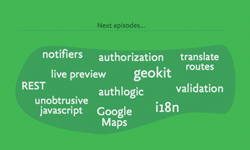
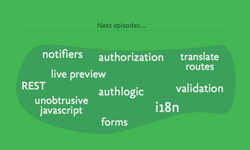
Added episodes 6, 7, 8. Fixed small issues in episodes 4, 5

diff --git a/index.html b/index.html
@@ -57,13 +57,13 @@
   </li>
 
   <li class="left">
-  	<strong>Episode #4 (04:05)</strong>
+  	<strong>Episode #4 (04:04)</strong>
   	<a href="http://s3.amazonaws.com/rails3/episode-04.mov" title="Download video in Quicktime H.264 format"><img src="images/episode-04.png" alt="View partials and the favicon" /></a>
   	<span class="desc">You will create partials for the header and the footer, include layout images and generate a favicon</span>
     <ul class="formats">
-      <li><a href="http://s3.amazonaws.com/rails3/episode-04.mov" title="Download in Quicktime H.264 format" class="main">episode-04.mov</a> (QT H.264, 7.5 MB)</li>
-      <li><a href="http://s3.amazonaws.com/rails3/episode-04.ogv" title="Download in Ogg Theora format">episode-04.ogv</a> (Ogg Theora, 8.7 MB)</li>
-      <li><a href="http://s3.amazonaws.com/rails3/episode-04.m4v" title="Download in iPod video H.264 format">episode-04.m4v</a> (iPod video, 5.2 MB)</li>
+      <li><a href="http://s3.amazonaws.com/rails3/episode-04.mov" title="Download in Quicktime H.264 format" class="main">episode-04.mov</a> (QT H.264, 7.6 MB)</li>
+      <li><a href="http://s3.amazonaws.com/rails3/episode-04.ogv" title="Download in Ogg Theora format">episode-04.ogv</a> (Ogg Theora, 9.4 MB)</li>
+      <li><a href="http://s3.amazonaws.com/rails3/episode-04.m4v" title="Download in iPod video H.264 format">episode-04.m4v</a> (iPod video, 5.3 MB)</li>
     </ul>
   </li>
 
@@ -72,21 +72,54 @@
   	<a href="http://s3.amazonaws.com/rails3/episode-05.mov" title="Download video in Quicktime H.264 format"><img src="images/episode-05.png" alt="Image attachments with Paperclip" /></a>
   	<span class="desc">You will import and show images storing them either locally or on Amazon S3 using Paperclip</span>
     <ul class="formats">
-      <li><a href="http://s3.amazonaws.com/rails3/episode-05.mov" title="Download in Quicktime H.264 format" class="main">episode-05.mov</a> (QT H.264, 10.6 MB)</li>
-      <li><a href="http://s3.amazonaws.com/rails3/episode-05.ogv" title="Download in Ogg Theora format">episode-05.ogv</a> (Ogg Theora, 12.6 MB)</li>
+      <li><a href="http://s3.amazonaws.com/rails3/episode-05.mov" title="Download in Quicktime H.264 format" class="main">episode-05.mov</a> (QT H.264, 10.8 MB)</li>
+      <li><a href="http://s3.amazonaws.com/rails3/episode-05.ogv" title="Download in Ogg Theora format">episode-05.ogv</a> (Ogg Theora, 12.5 MB)</li>
       <li><a href="http://s3.amazonaws.com/rails3/episode-05.m4v" title="Download in iPod video H.264 format">episode-05.m4v</a> (iPod video, 7.6 MB)</li>
+    </ul>
+  </li>
+
+  <li class="right">
+  	<strong>Episode #6 (04:28)</strong>
+  	<a href="http://s3.amazonaws.com/rails3/episode-06.mov" title="Download video in Quicktime H.264 format"><img src="images/episode-06.png" alt="Associations and helpers" /></a>
+  	<span class="desc">You will define associations between ActiveRecord models and familiarize with ActionView helpers</span>
+    <ul class="formats">
+      <li><a href="http://s3.amazonaws.com/rails3/episode-06.mov" title="Download in Quicktime H.264 format" class="main">episode-06.mov</a> (QT H.264, 6.4 MB)</li>
+      <li><a href="http://s3.amazonaws.com/rails3/episode-06.ogv" title="Download in Ogg Theora format">episode-06.ogv</a> (Ogg Theora, 7.9 MB)</li>
+      <li><a href="http://s3.amazonaws.com/rails3/episode-06.m4v" title="Download in iPod video H.264 format">episode-06.m4v</a> (iPod video, 5.2 MB)</li>
+    </ul>
+  </li>
+
+  <li class="left">
+  	<strong>Episode #7 (05:03)</strong>
+  	<a href="http://s3.amazonaws.com/rails3/episode-07.mov" title="Download video in Quicktime H.264 format"><img src="images/episode-07.png" alt="Multiple views" /></a>
+  	<span class="desc">You will add a &lsquo;show&rsquo; action and view with eager association loading and a separate stylesheet</span>
+    <ul class="formats">
+      <li><a href="http://s3.amazonaws.com/rails3/episode-07.mov" title="Download in Quicktime H.264 format" class="main">episode-07.mov</a> (QT H.264, 7.5 MB)</li>
+      <li><a href="http://s3.amazonaws.com/rails3/episode-07.ogv" title="Download in Ogg Theora format">episode-07.ogv</a> (Ogg Theora, 9.2 MB)</li>
+      <li><a href="http://s3.amazonaws.com/rails3/episode-07.m4v" title="Download in iPod video H.264 format">episode-07.m4v</a> (iPod video, 6.1 MB)</li>
+    </ul>
+  </li>
+
+  <li>
+  	<strong>Episode #8 (05:20)</strong>
+  	<a href="http://s3.amazonaws.com/rails3/episode-08.mov" title="Download video in Quicktime H.264 format"><img src="images/episode-08.png" alt="Geolocalization and maps" /></a>
+  	<span class="desc">You will enable geolocation with Geokit and display addresses on a Google map with ym4r_gm</span>
+    <ul class="formats">
+      <li><a href="http://s3.amazonaws.com/rails3/episode-08.mov" title="Download in Quicktime H.264 format" class="main">episode-08.mov</a> (QT H.264, 9.3 MB)</li>
+      <li><a href="http://s3.amazonaws.com/rails3/episode-08.ogv" title="Download in Ogg Theora format">episode-08.ogv</a> (Ogg Theora, 11.2 MB)</li>
+      <li><a href="http://s3.amazonaws.com/rails3/episode-08.m4v" title="Download in iPod video H.264 format">episode-08.m4v</a> (iPod video, 6.7 MB)</li>
     </ul>
   </li>
 
   <li>
   	<strong>Coming up&hellip;</strong>
   	<img src="images/next-episodes.png" alt="Coming up" />
-  	<span class="desc">You will authenticate users, authorize access, create forms, validate input, add categories, geolocate, deliver e-mails, translate content, manage subdomains, improve routes, and write a fully functional application in Ruby on Rails 3</span>
+  	<span class="desc">You will authenticate users, authorize access, create forms, validate input, add categories, include unobtrusive javascripts, deliver e-mails, translate content, manage subdomains, improve routes, and write a fully functional application in Ruby on Rails 3</span>
   </li>
 </ol>
 
 <div id="footer">
- Last updated on August 27, 2010 &middot; 
+ Last updated on September 6, 2010 &middot; 
  <a href="http://claudiob.github.com" title="My GitHub page">Visit my GitHub page</a>
  </div>
 

diff --git a/HISTORY.md b/HISTORY.md
@@ -5,3 +5,9 @@
 * 2010.08.29
 
    Episode 4: fixed the indentation of the `%head` block in `app/views/layouts/application.html.haml`.
+   
+* 2010.09.06
+
+  Episodes 6, 7, 8: released
+  Episode 4: Used favicon_link_tag to show favicon
+  Episode 3: Added format = :thumb to thumbnail function
